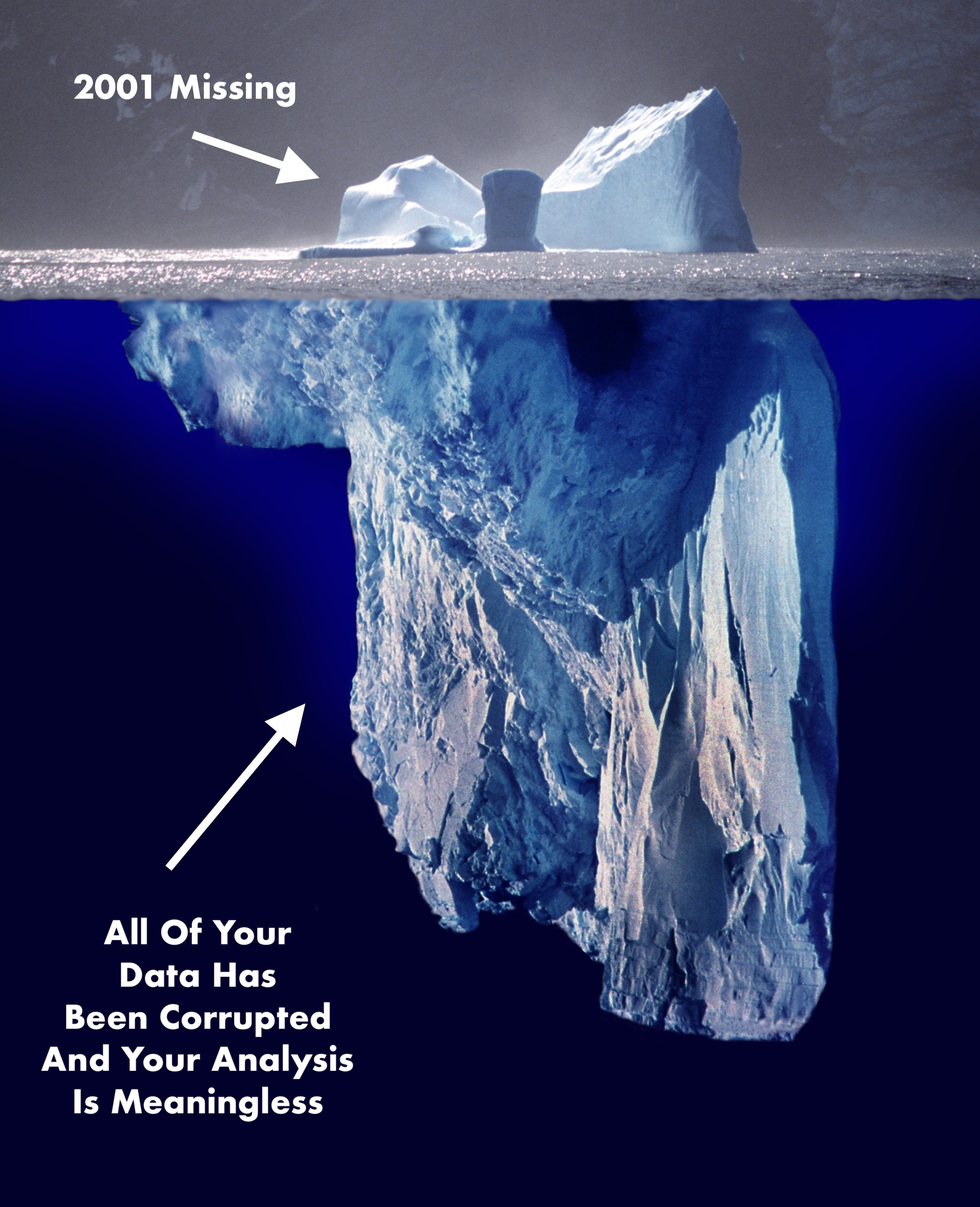
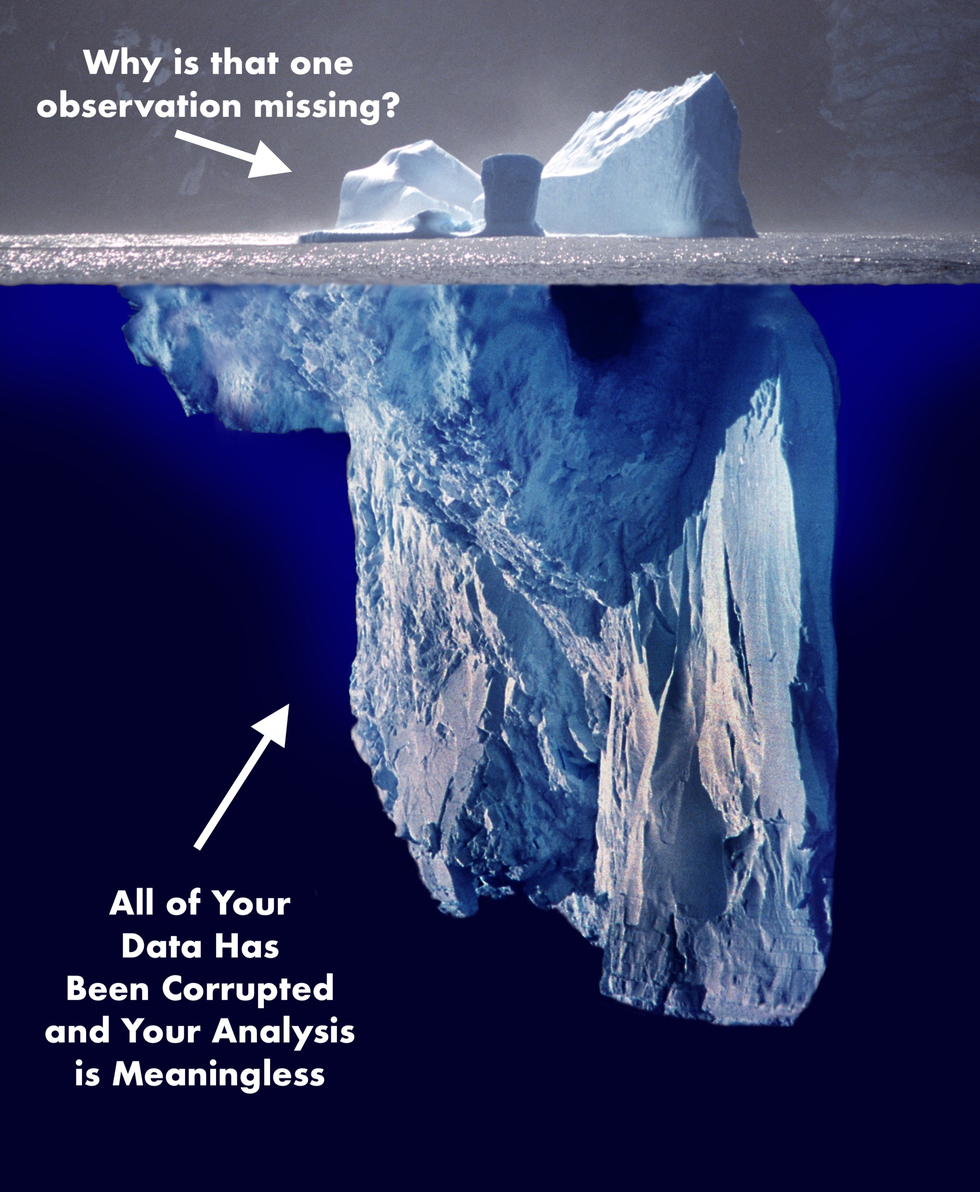
Update caption on iceberg

Changed region(s): [[0.0, 0.0311, 1.0, 0.872], [0.0311, 0.7474, 0.3737, 0.9343], [0.1557, 0.5606, 0.3114, 0.7163]]

diff --git a/docs/html/iceberg_principle.html b/docs/html/iceberg_principle.html
@@ -764,15 +764,6 @@ div.rendered_html tbody tr:hover {
 <p><img alt="iceberg" src="_images/iceberg.jpg" /></p>
 <p>And lest you think this is a contrived example: it’s not. It is a simplified verison of a problem I encountered in my own research just 2 months ago, in which a single outlier observation lead me to realize that our data entry team had made an off-by-one error during data entry that had corrupted several years of data. I cannot tell you how many times over the years I’ve had this kind of thing occur – I was one observation short in a regression, or I had one outlier, and when I dug into I
 discovered a much, much bigger problem. So <em>please</em> heed my warning: if you see something that seems off, no matter how small, figure out what’s causing it!</p>
-<div class="nbinput nblast docutils container">
-<div class="prompt highlight-none notranslate"><div class="highlight"><pre><span></span>[ ]:
-</pre></div>
-</div>
-<div class="input_area highlight-ipython3 notranslate"><div class="highlight"><pre>
-<span></span>
-</pre></div>
-</div>
-</div>
 </div>
 
 

diff --git a/docs/html/_static/pygments.css b/docs/html/_static/pygments.css
@@ -1,5 +1,10 @@
+pre { line-height: 125%; margin: 0; }
+td.linenos pre { color: #000000; background-color: #f0f0f0; padding: 0 5px 0 5px; }
+span.linenos { color: #000000; background-color: #f0f0f0; padding: 0 5px 0 5px; }
+td.linenos pre.special { color: #000000; background-color: #ffffc0; padding: 0 5px 0 5px; }
+span.linenos.special { color: #000000; background-color: #ffffc0; padding: 0 5px 0 5px; }
 .highlight .hll { background-color: #ffffcc }
-.highlight  { background: #f8f8f8; }
+.highlight { background: #f8f8f8; }
 .highlight .c { color: #8f5902; font-style: italic } /* Comment */
 .highlight .err { color: #a40000; border: 1px solid #ef2929 } /* Error */
 .highlight .g { color: #000000 } /* Generic */
